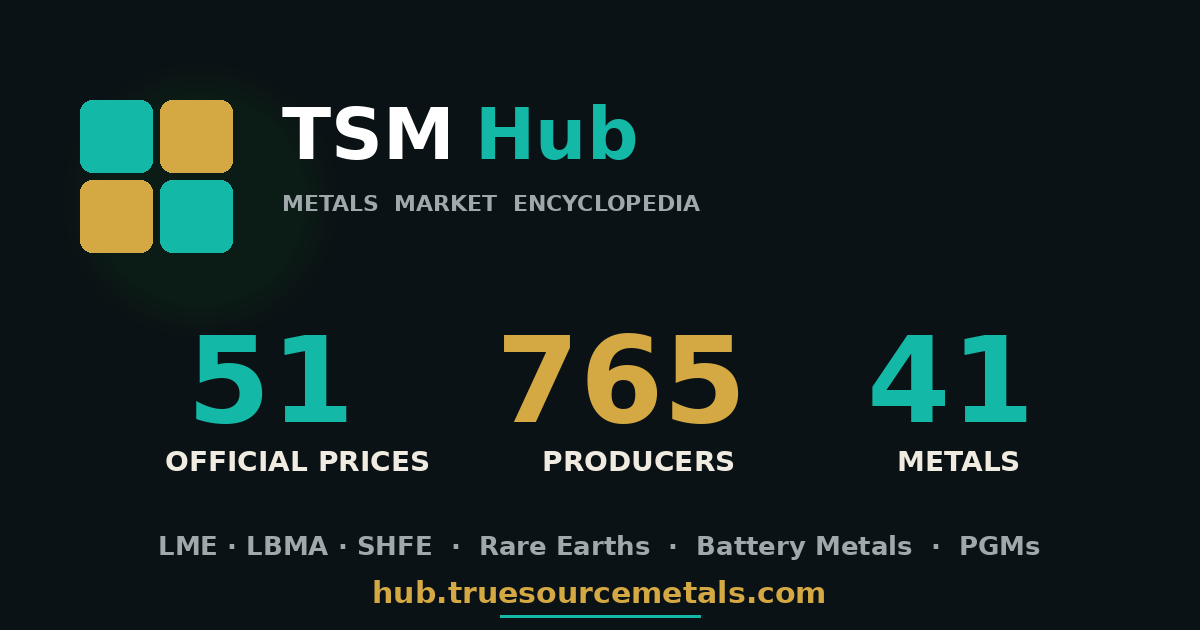
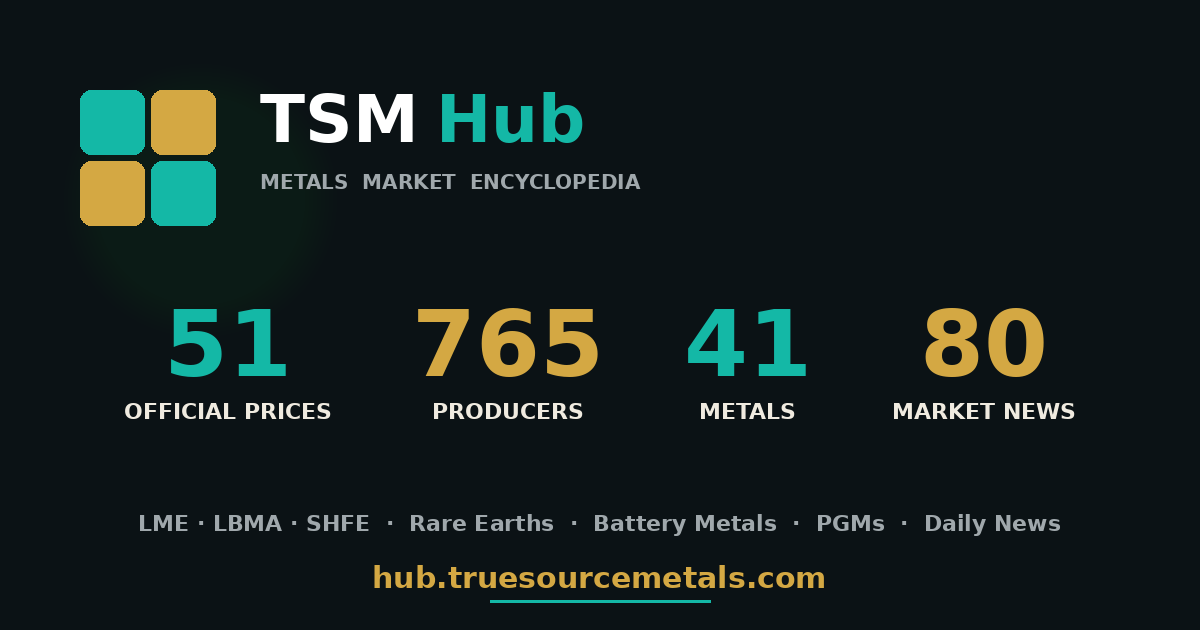
OG: add news count (80) to image and meta tags

diff --git a/src/template.html b/src/template.html
@@ -18,8 +18,8 @@
   <link rel="canonical" href="https://hub.truesourcemetals.com">
 
   <meta property="og:type" content="website">
-  <meta property="og:title" content="TSM Hub — {{TOTAL_PRICES}} Official Prices · {{TOTAL_PRODUCERS}} Producers · {{TOTAL_METALS_P}} Metals">
-  <meta property="og:description" content="{{TOTAL_PRICES}} official prices, {{TOTAL_PRODUCERS}} global producers, {{TOTAL_TERMS}} glossary terms across {{TOTAL_METALS_P}} metals. LME, LBMA, SHFE, rare earths, battery metals, PGMs. Free. Updated twice daily.">
+  <meta property="og:title" content="TSM Hub — {{TOTAL_PRICES}} Prices · {{TOTAL_PRODUCERS}} Producers · {{TOTAL_METALS_P}} Metals · {{NAV_COUNT_NEWS}} News">
+  <meta property="og:description" content="{{TOTAL_PRICES}} official prices, {{TOTAL_PRODUCERS}} global producers, {{TOTAL_METALS_P}} metals, {{NAV_COUNT_NEWS}} daily market news articles, {{TOTAL_TERMS}} glossary terms. LME, LBMA, SHFE, rare earths, battery metals, PGMs. Free. Updated twice daily.">
   <meta property="og:url" content="https://hub.truesourcemetals.com">
   <meta property="og:site_name" content="TrueSource Metals">
   <meta property="og:image" content="https://hub.truesourcemetals.com/og-image.png">
@@ -28,8 +28,8 @@
   <meta property="og:image:type" content="image/png">
   <meta property="og:image:alt" content="TSM Hub — Metals Market Encyclopedia: official prices, producers, glossary">
   <meta name="twitter:card" content="summary_large_image">
-  <meta name="twitter:title" content="TSM Hub — {{TOTAL_PRICES}} Official Prices · {{TOTAL_PRODUCERS}} Producers · {{TOTAL_METALS_P}} Metals">
-  <meta name="twitter:description" content="{{TOTAL_PRICES}} official prices, {{TOTAL_PRODUCERS}} producers, {{TOTAL_TERMS}} glossary terms. Free metals market encyclopedia. Updated twice daily.">
+  <meta name="twitter:title" content="TSM Hub — {{TOTAL_PRICES}} Prices · {{TOTAL_PRODUCERS}} Producers · {{TOTAL_METALS_P}} Metals · {{NAV_COUNT_NEWS}} News">
+  <meta name="twitter:description" content="{{TOTAL_PRICES}} official prices, {{TOTAL_PRODUCERS}} producers, {{NAV_COUNT_NEWS}} daily market news, {{TOTAL_TERMS}} glossary terms. Free metals encyclopedia. Updated twice daily.">
   <meta name="twitter:image" content="https://hub.truesourcemetals.com/og-image.png">
   <meta name="robots" content="index, follow">
 
